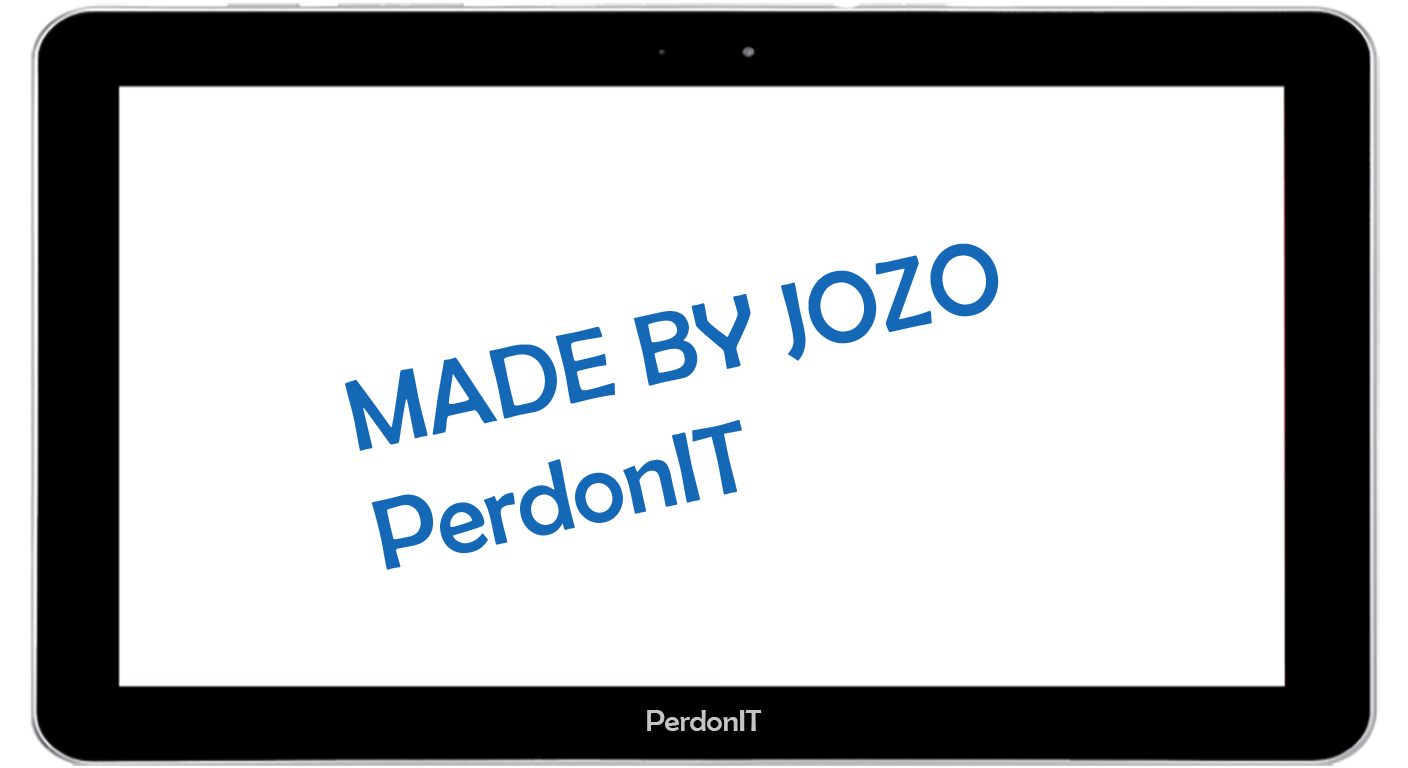
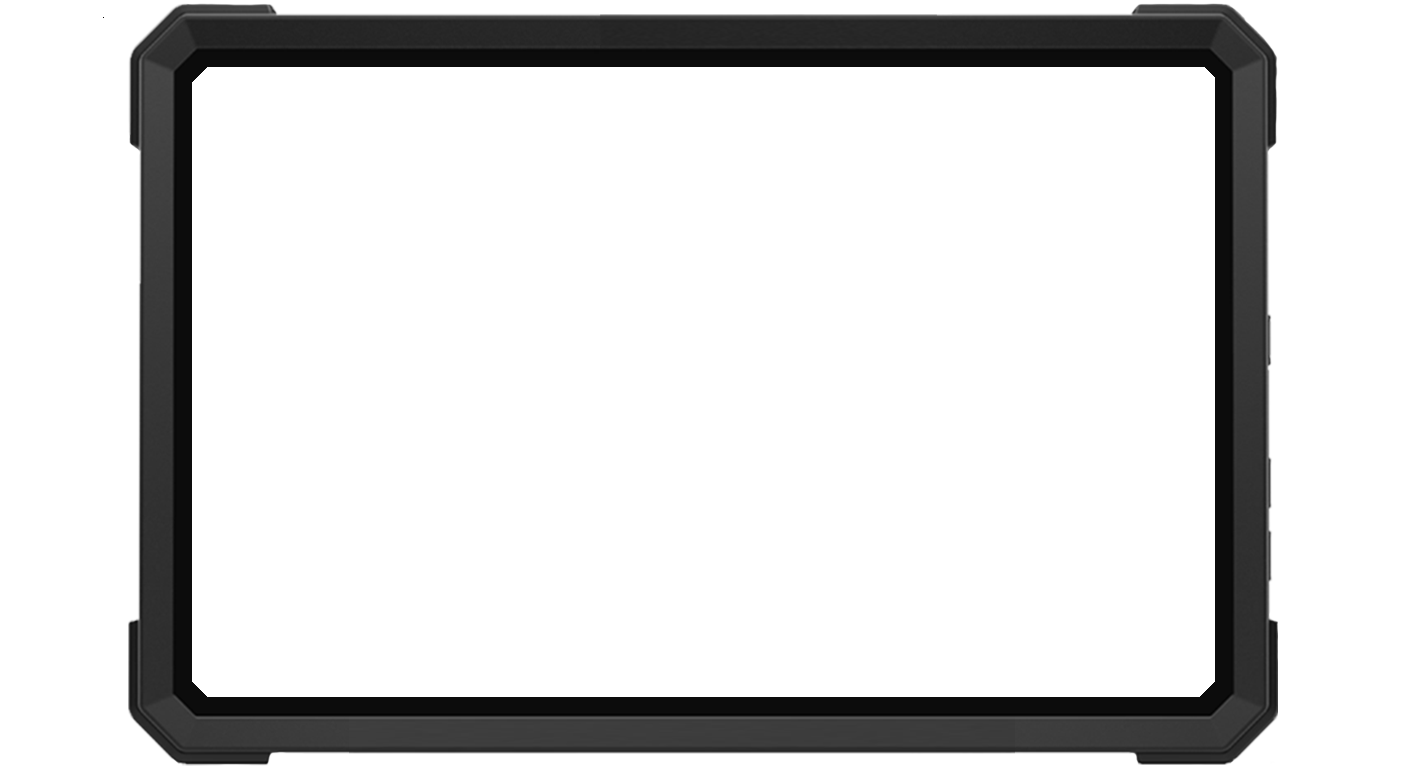
Updated tablet png

diff --git a/html/style.css b/html/style.css
@@ -1,43 +1,42 @@
 body {
-    display: none;
-    overflow: hidden;
+  display: none;
+  overflow: hidden;
 }
 
 #tablet {
-    position: absolute;
-    top: 50%;
-    transform: translate(-50%, -50%);
-    left: 50%;
-    width: 1377px;
-    height: 768px;
-    display: flex;
-    flex-direction: column;
-    background-image: url(tablet.png);
-    background-repeat: no-repeat;
+  position: absolute;
+  top: 50%;
+  transform: translate(-50%, -50%);
+  left: 50%;
+  width: 1702px;
+  height: 1000px;
+  display: flex;
+  flex-direction: column;
+  background-image: url(tablet.png);
+  background-repeat: no-repeat;
+  background-size: 1600px;
 }
 
 .tablet .content {
-    width: 1366px;
-    height: 768px;
-    background: rgba(0, 0, 0, 0);
-    flex-grow: 1;
-
+  width: 1366px;
+  height: 768px;
+  background: rgba(0, 0, 0, 0);
+  flex-grow: 1;
 }
 
 .tablet .content {
-    margin-left: 37%;
-    margin-bottom: 15%;
-    margin-top: 10%;
-
+  margin-left: 37%;
+  margin-bottom: 15%;
+  margin-top: 10%;
 }
 
 iframe {
-    position: relative;
-    top: 85px;
-    left: 118px;
-    width: 1170px;
-    height: 602px;
-    border: 0px;
-    margin: 0px;
-    padding: 0px;
+  position: relative;
+  top: 76px;
+  left: 216px;
+  width: 1170px;
+  height: 718px;
+  border: 0px;
+  margin: 0px;
+  padding: 0px;
 }
